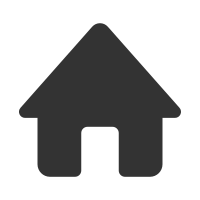
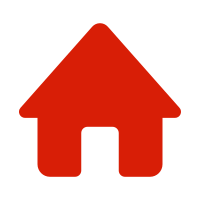
master

diff --git a/Vue学习/shoppingmall/src/components/content/mainTabbar/MainTabBar.vue b/Vue学习/shoppingmall/src/components/content/mainTabbar/MainTabBar.vue
@@ -1,6 +1,6 @@
 <template>
   <tab-bar>
-    <!-- <tab-bar-item path="/home">
+    <tab-bar-item path="/home">
       <img
         slot="item-icon"
         src="../../../assets/img/tabbar/home.png"
@@ -12,29 +12,53 @@
         alt="首页"
       />
       <div slot="item-text">首页</div>
-    </tab-bar-item> -->
-    <!-- <tab-bar-item path="/category">
-            <img slot="item-icon" src="~assets/img/tabbar/category.svg" alt="分类">
-            <img slot="item-icon-active" src="~assets/img/tabbar/category_active.svg" alt="分类">
-            <div slot="item-text">分类</div>
-        </tab-bar-item>
-        <tab-bar-item path="/cart">
-            <img slot="item-icon" src="~assets/img/tabbar/shopcart.svg" alt="购物车">
-            <img slot="item-icon-active" src="~assets/img/tabbar/shopcart_active.svg" alt="购物车">
-            <div slot="item-text">购物车</div>
-        </tab-bar-item>
-        <tab-bar-item path="/profile">
-            <img slot="item-icon" src="~assets/img/tabbar/profile.svg" alt="我的">
-            <img slot="item-icon-active" src="~assets/img/tabbar/profile_active.svg" alt="我的">
-            <div slot="item-text">我的</div>
-        </tab-bar-item> -->
+    </tab-bar-item>
+    <tab-bar-item path="/category">
+      <img
+        slot="item-icon"
+        src="../../../assets/img/tabbar/category.png"
+        alt="分类"
+      />
+      <img
+        slot="item-icon-active"
+        src="../../../assets/img/tabbar/category_active.png"
+        alt="分类"
+      />
+      <div slot="item-text">分类</div>
+    </tab-bar-item>
+    <tab-bar-item path="/cart">
+      <img
+        slot="item-icon"
+        src="../../../assets/img/tabbar/shopcart.png"
+        alt="购物车"
+      />
+      <img
+        slot="item-icon-active"
+        src="../../../assets/img/tabbar/shopcart_active.png"
+        alt="购物车"
+      />
+      <div slot="item-text">购物车</div>
+    </tab-bar-item>
+    <tab-bar-item path="/profile">
+      <img
+        slot="item-icon"
+        src="../../../assets/img/tabbar/profile.png"
+        alt="我的"
+      />
+      <img
+        slot="item-icon-active"
+        src="../../../assets/img/tabbar/profile_active.png"
+        alt="我的"
+      />
+      <div slot="item-text">我的</div>
+    </tab-bar-item>
   </tab-bar>
 </template>
 
 <script>
 // 导入TabBar组件和TabBarItem组件
-import TabBar from "./components/common/tabbar/TabBar.vue"
-import TabBarItem from "./components/common/tabbar/TabBarItem.vue"
+import TabBar from "@/components/common/tabbar/TabBar";
+import TabBarItem from "@/components/common/tabbar/TabBarItem";
 
 export default {
   name: "MainTabBar",
@@ -43,9 +67,8 @@ export default {
     TabBar,
     TabBarItem,
   },
-}
+};
 </script>
 
 <style>
-
 </style>

diff --git a/Vue学习/shoppingmall/src/components/common/tabbar/TabBarItem.vue b/Vue学习/shoppingmall/src/components/common/tabbar/TabBarItem.vue
@@ -1,56 +1,58 @@
 <template>
   <!--所有的item都展示同一个图片, 同一个文字-->
   <div class="tab-bar-item" @click="itemClick">
+    <!-- 未点击图标时 -->
     <div v-if="!isActive"><slot name="item-icon"></slot></div>
+    <!-- 点击图标时 -->
     <div v-else><slot name="item-icon-active"></slot></div>
     <div :style="activeStyle"><slot name="item-text"></slot></div>
   </div>
 </template>
 
 <script>
-  export default {
-    name: "TabBarItem",
-    props: {
-      path: String,
-      activeColor: {
-        type: String,
-        default: 'red'
-      }
+export default {
+  name: "TabBarItem",
+  props: {
+    path: String,
+    activeColor: {
+      type: String,
+      default: "red",
     },
-    data() {
-      return {
-        // isActive: true //  全部处于活跃状态
-      }
+  },
+  data() {
+    return {
+      // isActive: true //  全部处于活跃状态
+    };
+  },
+  computed: {
+    isActive() {
+      return this.$route.path.indexOf(this.path) !== -1;
     },
-    computed: {
-      isActive() {
-        return this.$route.path.indexOf(this.path) !== -1
-      },
-      activeStyle() {
-        return this.isActive ? {color: this.activeColor} : {}
-      }
+    activeStyle() {
+      return this.isActive ? { color: this.activeColor } : {};
     },
-    methods: {
-      itemClick() {
-        this.$router.replace(this.path)
-      }
-    }
-  }
+  },
+  methods: {
+    itemClick() {
+      this.$router.replace(this.path);
+    },
+  },
+};
 </script>
 
 <style>
-  /* .tab-bar-item {
-    flex: 1;
-    text-align: center;
-    height: 49px;
-    font-size: 14px;
-  }
+.tab-bar-item {
+  flex: 1;
+  text-align: center;
+  height: 49px;
+  font-size: 14px;
+}
 
-  .tab-bar-item img {
-    width: 24px;
-    height: 24px;
-    margin-top: 3px;
-    vertical-align: middle;
-    margin-bottom: 2px;
-  } */
+.tab-bar-item img {
+  width: 24px;
+  height: 24px;
+  margin-top: 3px;
+  vertical-align: middle;
+  margin-bottom: 2px;
+}
 </style>

diff --git a/Vue学习/shoppingmall/src/router/index.js b/Vue学习/shoppingmall/src/router/index.js
@@ -1,16 +1,52 @@
-import Vue from 'vue'
-import VueRouter from 'vue-router'
+import Vue from "vue"
+import VueRouter from "vue-router"
 
+const routerPush = VueRouter.prototype.push
+VueRouter.prototype.push = function push(location) {
+  return routerPush.call(this, location).catch((error) => error)
+}
+
+//  路由懒加载
+const Home = () => import("../views/home/Home")
+const Category = () => import("../views/category/Category")
+const Cart = () => import("../views/cart/Cart")
+const Profile = () => import("../views/profile/Profile")
+// 1.安装插件
 Vue.use(VueRouter)
 
 const routes = [
-  
+  {
+    path: "",
+    redirect: "/home",
+  },
+  {
+    path: "/home",
+    component: Home,
+  },
+  {
+    path: "/category",
+    component: Category,
+  },
+  {
+    path: "/cart",
+    component: Cart,
+  },
+  {
+    path: "/profile",
+    component: Profile,
+  },
 ]
 
+// 2.创建VueRouter对象
 const router = new VueRouter({
   routes,
-  mode: 'history',
+  mode: "history",
   base: process.env.BASE_URL,
 })
+
+const originalPush = VueRouter.prototype.push
+VueRouter.prototype.push = function push(location) {
+  return originalPush.call(this, location).catch((err) => err)
+}
 
 export default router

diff --git a/Vue学习/shoppingmall/src/App.vue b/Vue学习/shoppingmall/src/App.vue
@@ -1,15 +1,17 @@
 <template>
   <div id="app">
     <router-view />
+    <main-tab-bar></main-tab-bar>
   </div>
 </template>
 
 <script>
-export default {
-  components:{
-    MainTabBarVue
-  }
-}
+  import MainTabBar from './components/content/mainTabbar/MainTabBar'
+  export default {
+    components: {
+      MainTabBar,
+    },
+  };
 </script>
 
 <style>

diff --git a/Vue学习/shoppingmall/vue.config.js b/Vue学习/shoppingmall/vue.config.js
@@ -1,0 +1,14 @@
+module.exports = {
+  configureWebpack: {
+    resolve: {
+      // 设置别名
+      alias: {
+        assets: "@/assets",
+        common: "@/common",
+        components: "@/components",
+        network: "@/network",
+        views: "@/views",
+      },
+    },
+  },
+}

diff --git a/Vue学习/shoppingmall/src/components/common/tabbar/TabBar.vue b/Vue学习/shoppingmall/src/components/common/tabbar/TabBar.vue
@@ -11,7 +11,7 @@
 </script>
 
 <style>
-  /* #tab-bar {
+  #tab-bar {
     display: flex;
     background-color: #f6f6f6;
 
@@ -21,5 +21,5 @@
     bottom: 0;
 
     box-shadow: 0 -1px 1px rgba(100,100,100,.2);
-  } */
+  }
 </style>

diff --git a/Vue学习/shoppingmall/src/views/cart/Cart.vue b/Vue学习/shoppingmall/src/views/cart/Cart.vue
@@ -5,9 +5,10 @@
 
 <script>
   export default {
-    name: "Cart"
+    name: "Cart",
+    
   }
 </script>
 
-<style scoped>
+<style>
 </style>
